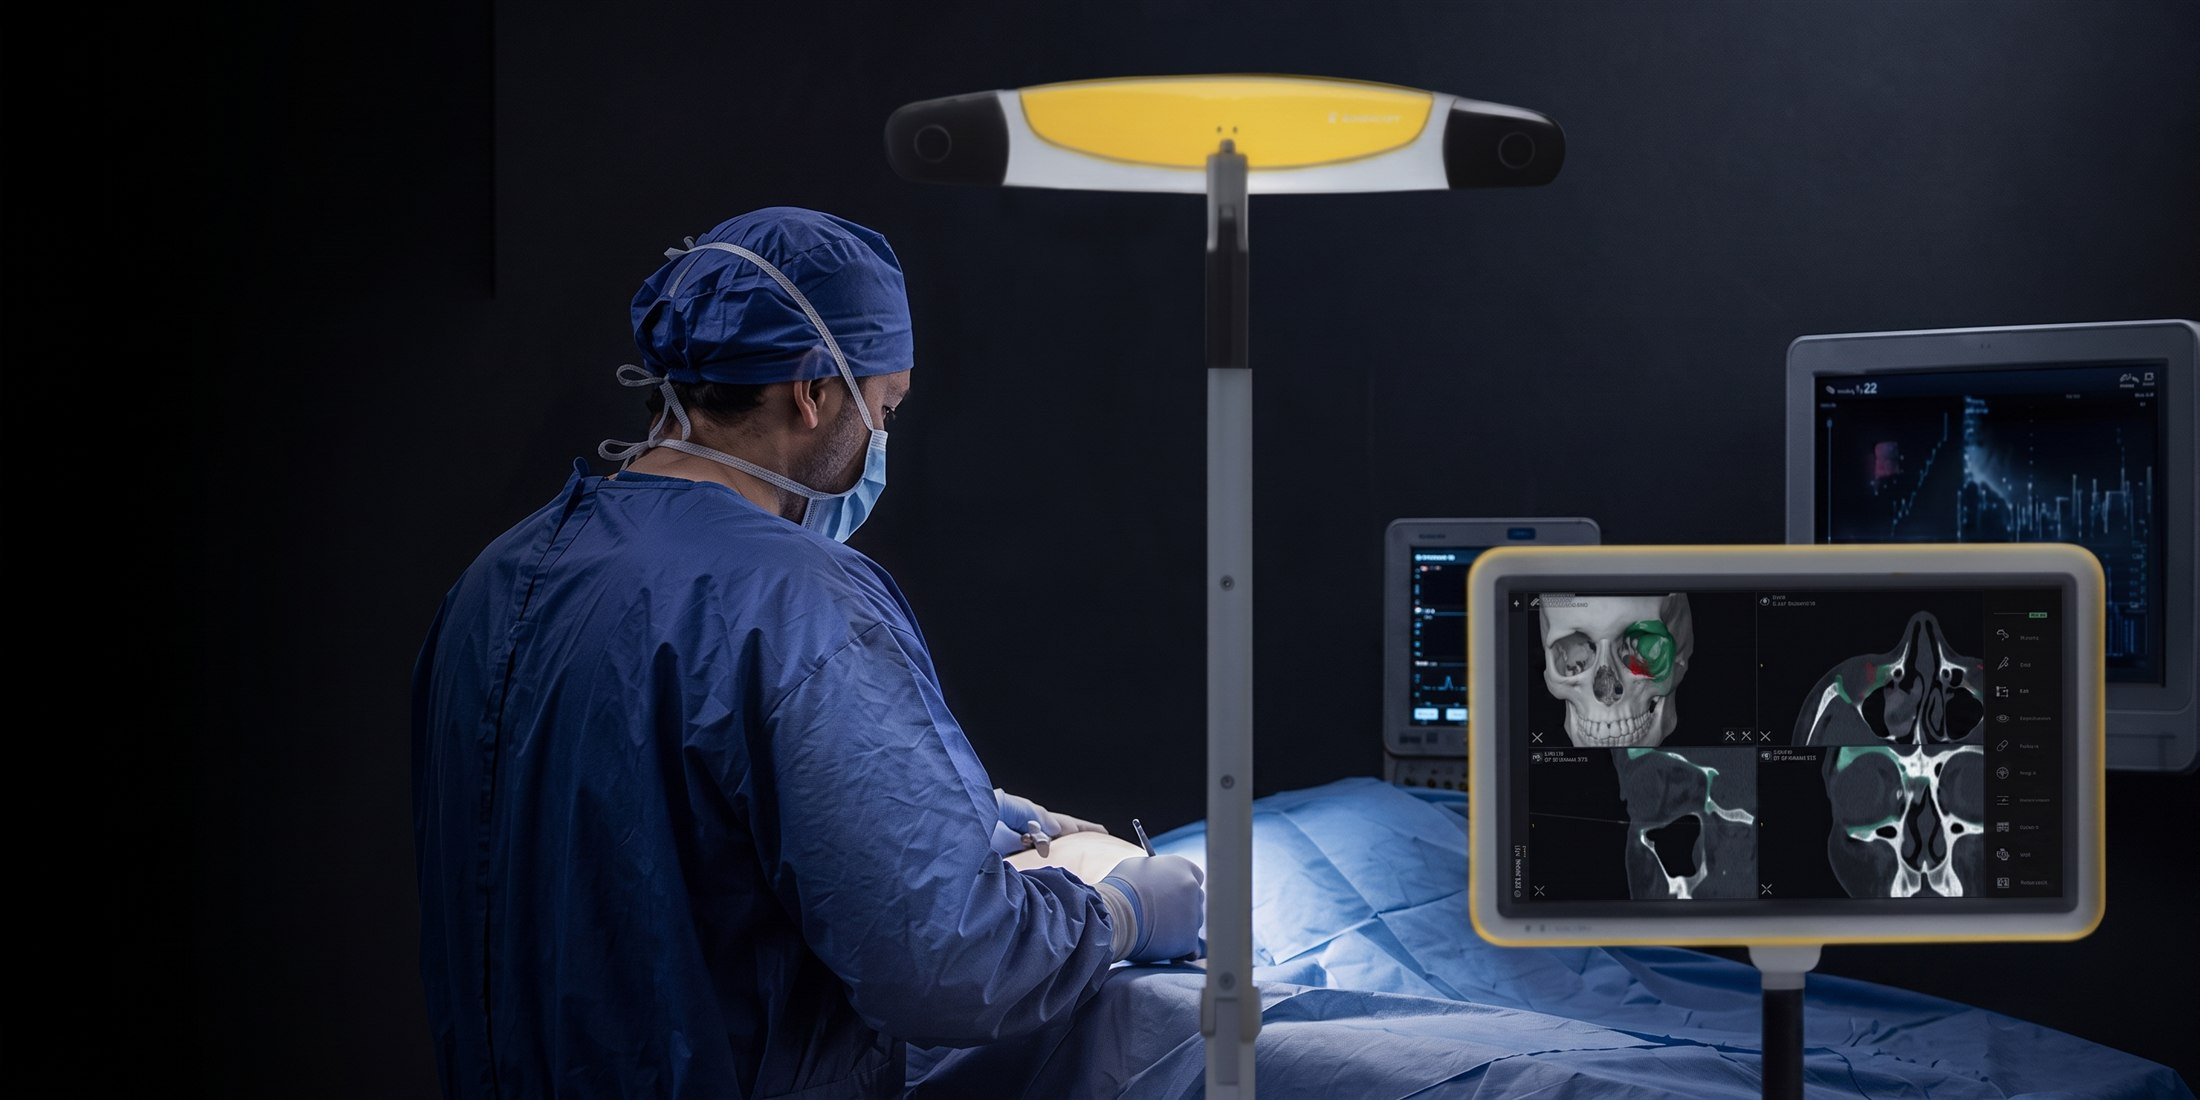
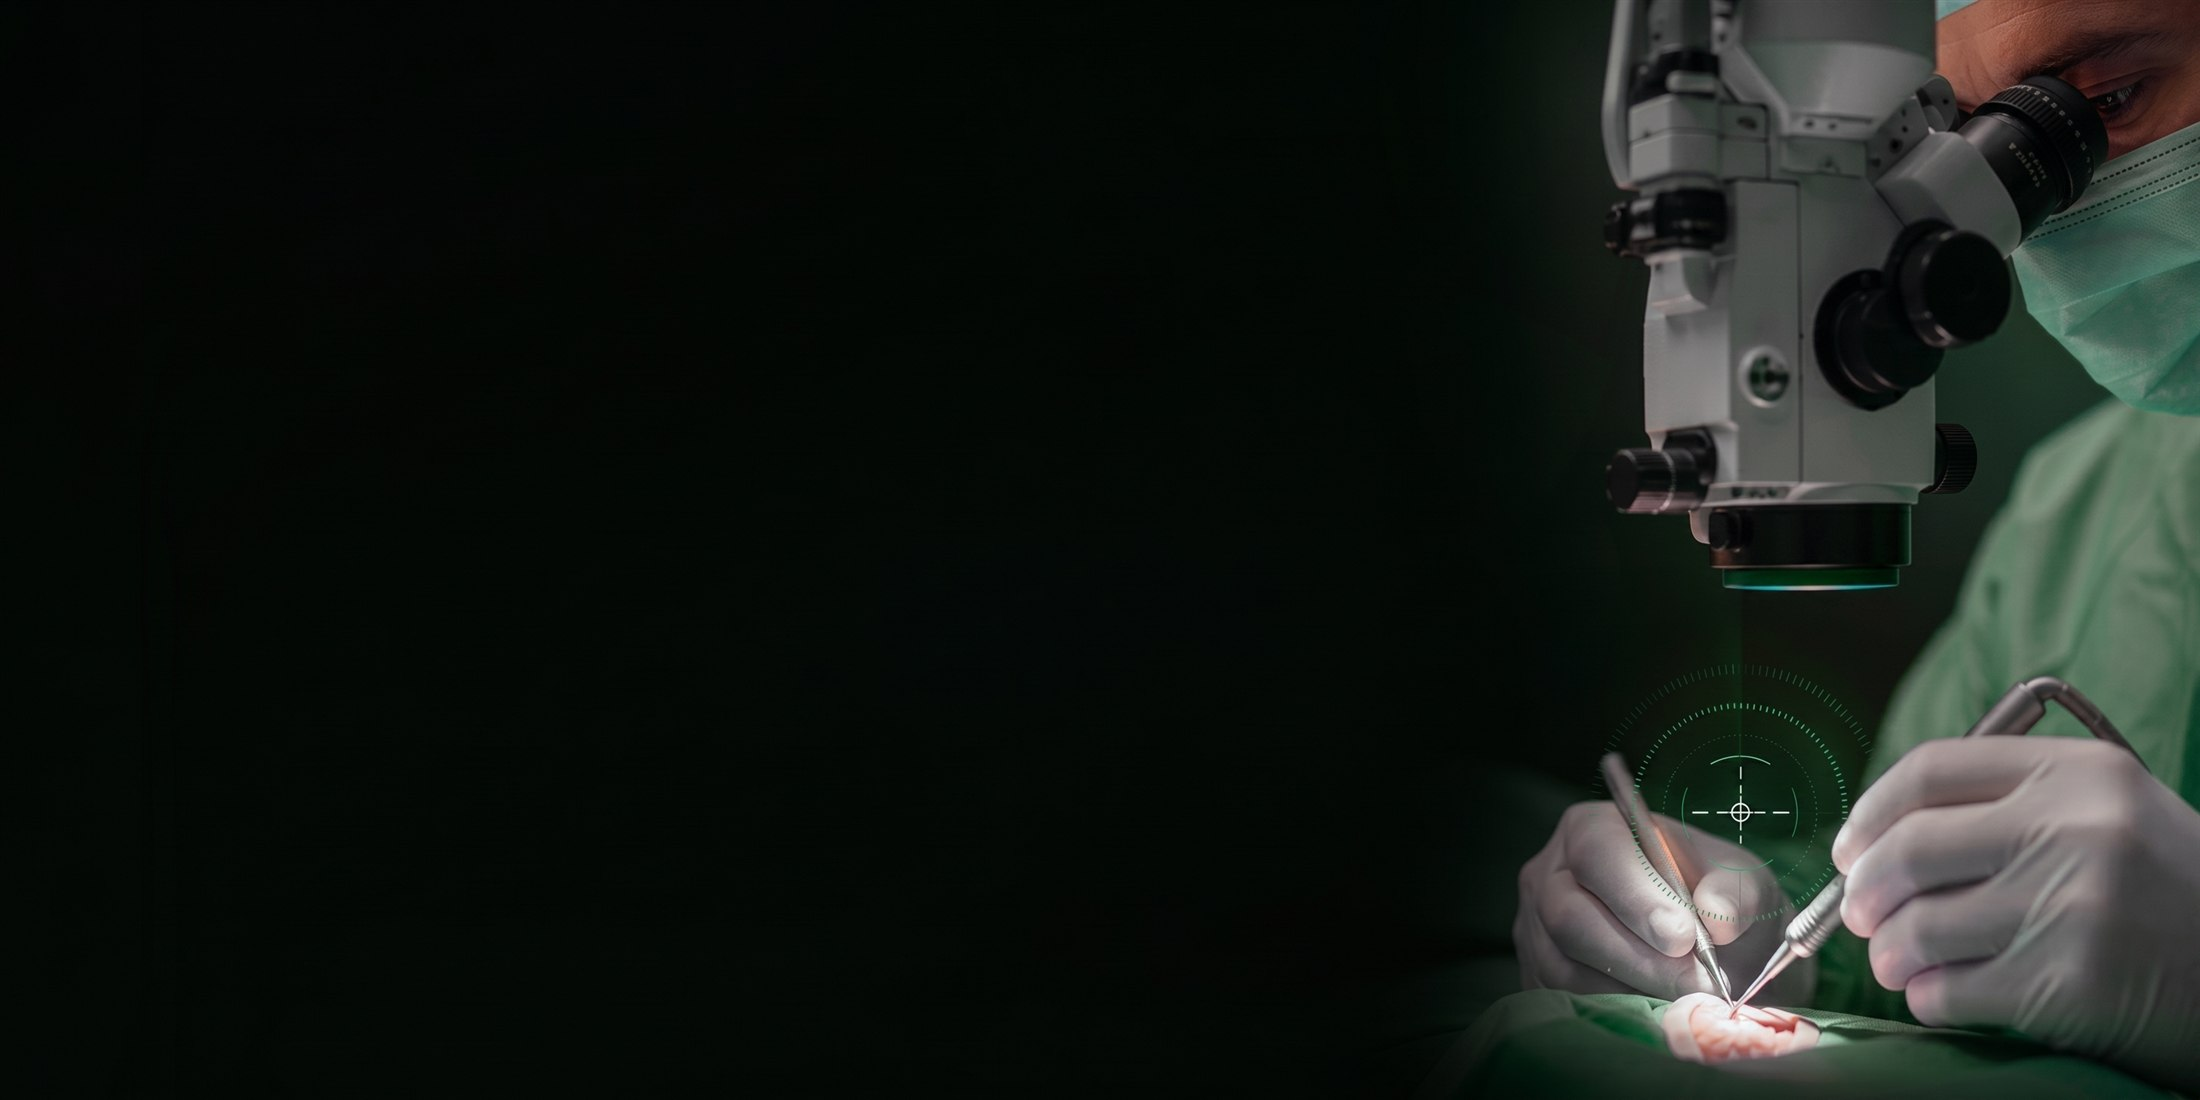
Replace login wallpaper again, anchor crop to the right instead
Previous photo had content spread across both edges, so no single crop
worked. New photo keeps everything (microscope, hands, surgical site)
against the right edge with pure black on the left, so cover +
right-anchored position always shows the full subject, only ever
trimming empty space.

diff --git a/src/pages/login/LoginPage.tsx b/src/pages/login/LoginPage.tsx
@@ -530,15 +530,12 @@ const styles: Record<string, React.CSSProperties> = {
   imagePanel: {
     flex: '1 1 63%',
     position: 'relative' as const,
-    // "contain" (en vez de "cover") para que la foto se vea completa siempre, sin recortar
-    // ningún lado — la foto es más ancha (2:1) que el panel, así que "cover" siempre iba a
-    // cortar el cirujano o las pantallas. El espacio sobrante lo rellena backgroundColor,
-    // que coincide con el tono oscuro de la propia foto para que no se note el relleno.
-    backgroundColor: '#0a140f',
     backgroundImage: `linear-gradient(180deg, rgba(10,20,15,0.22) 0%, rgba(10,20,15,0.3) 45%, rgba(6,14,10,0.88) 100%), url(${portada})`,
-    backgroundSize: '100% 100%, contain',
-    backgroundPosition: 'center, center',
-    backgroundRepeat: 'no-repeat, no-repeat',
+    backgroundSize: 'cover',
+    // Todo el contenido de la foto está pegado al borde derecho (el resto es fondo negro) —
+    // ancla el recorte a la derecha para que "cover" nunca le quite nada a eso, solo recorte
+    // el negro vacío de la izquierda.
+    backgroundPosition: 'right center',
     display: 'flex',
     flexDirection: 'column' as const,
     justifyContent: 'space-between',
